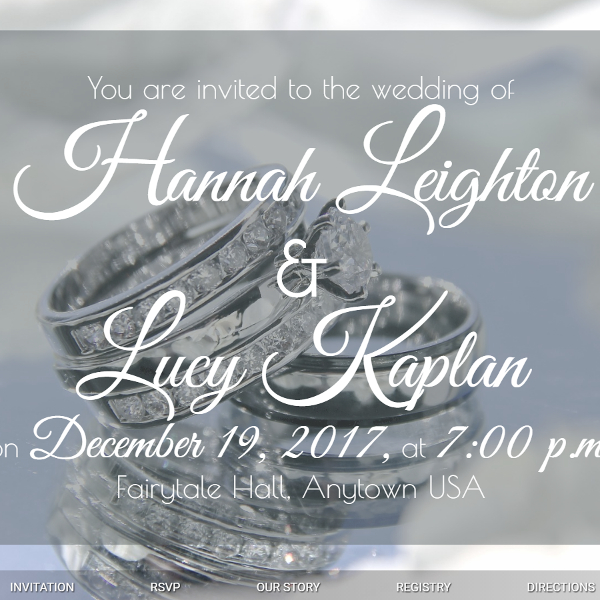
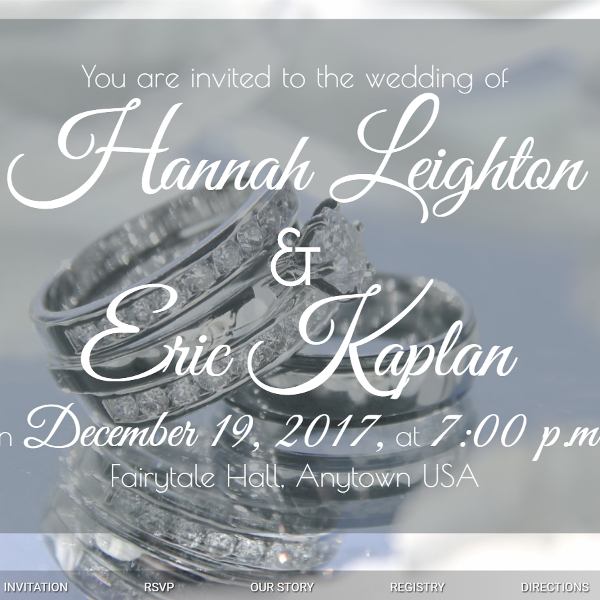
New blog post, among other things

diff --git a/portfolio/30Days30Sites/day02.html b/portfolio/30Days30Sites/day02.html
@@ -1,7 +1,7 @@
 <!DOCTYPE html>
 <html lang="en">
     <head>
-        <title>Hannah Leighton + Lucy Kaplan</title>
+        <title>Hannah Leighton + Eric Kaplan</title>
         <link rel="stylesheet" href="css/parallax.css"/><script type="text/javascript" src="https://ajax.googleapis.com/ajax/libs/jquery/3.2.1/jquery.min.js"></script>
         <link href='https://fonts.googleapis.com/css?family=Great+Vibes|Gentium+Basic|Poiret+One|Roboto' rel='stylesheet' type='text/css'>
         <link rel="stylesheet" type="text/css" href="/FontAwesome/css/font-awesome.min.css">
@@ -14,7 +14,7 @@
             <h2><span class="cursive"><span class="big-letter">H</span>annah <span class="big-letter">L</span>eighton</span><br>
             <span class="amp">&amp;</span><br>
             <span class="cursive">
-            <span class="big-letter">L</span>ucy <span class="big-letter">K</span>aplan</span></h2>
+            <span class="big-letter">E</span>ric <span class="big-letter">K</span>aplan</span></h2>
             <p>on <span class="cursive">December 19, 2017,</span> 
             at <span class="cursive">7:00 p.m.</span></p>
             <p>Fairytale Hall, Anytown USA</p>
@@ -67,7 +67,7 @@
                 <span class="space">at</span></span> <span class="time reminder">7:00 p.m.</span><br>
                 <span class="reminder">Fairytale Hall, Anytown USA</span></p>
                 <p><i class="fa fa-heart"></i></p>
-                <p><span class="cursive">Hannah and Lucy</span></p>
+                <p><span class="cursive">Hannah and Eric</span></p>
             </div>
         </div>
         </div>

diff --git a/index.html b/index.html
@@ -5,7 +5,7 @@ title: Writer Cracks the Code
 
 <div class="container">            
     <div class="title-blurb"><h1>Writer Cracks the Code</h1>
-    <h2>The blog of Morrisa Neely, aspiring web dev and occasional word-weaver</h2></div>
+    <h2>The blog of Morrisa Neely, animal lover, aspiring web dev, and occasional word-weaver</h2></div>
 
 <div class="excerpts">
 <ul>

diff --git a/portfolio/30Days30Sites/css/parallax.css b/portfolio/30Days30Sites/css/parallax.css
@@ -273,7 +273,7 @@ h2 {
     }
     
 #directions {
-    background: url("/portfolio/30Days30Sites/images/day02/women-pixabay.jpg") no-repeat center center fixed;
+    background: url("/portfolio/30Days30Sites/images/day02/couple-pixabay.jpg") no-repeat center center fixed;
     color: #fff;
     height: 101%;
     padding: 2.7em 2.5em 2.5em 2.5em;

diff --git a/portfolio/30Days30Sites/day10.html b/portfolio/30Days30Sites/day10.html
@@ -4,7 +4,6 @@
     </head>
     
     <body>
-    In Progress
     </body>
 
 </html>

diff --git a/_posts/2017-09-04-hitting-the-restart-button.md b/_posts/2017-09-04-hitting-the-restart-button.md
@@ -1,0 +1,18 @@
+---
+layout: post
+title: "Hitting the Restart Button"
+date: 2017-09-04
+---
+So, it's September already somehow? Since when? That doesn't seem right. I swear it was July just a few days ago.
+
+I've been gone from this thing&mdash;and my coding adventures&mdash;for too long. I fell woefully behind on 100 Days of Code, 30 Days 30 Sites, updating my Twitter account, all of it. But I'm still around. I'm always lurking somewhere on the internet...*always*...
+
+So. Updates? I got my driver's license around the end of July. I'm a car owner now. I'm 29 years old now, which doesn't sound accurate, but okay. I guess if my birth certificate says I should be 29 now, then I must be 29.
+
+Also, I applied for some jobs yesterday&mdash;first time I've ever applied for any job. I think I've mentioned before that I'd be searching for non-software jobs in the near future. I was waiting for vocational rehab to come through with something for me, but I got tired of waiting. Anyway, one of the jobs I applied to is at Petco, another is at a pet resort. Both involve dogs, and I'm a total dog person (I love cats too!). I figure I can tolerate a *lot* of stuff if I'm also getting to interact with dogs and other animals. I mean, I'm one of those people who gets all mushy over them.
+
+I don't have any professional experience working with dogs, but I can't remember ever being without at least one dog. And I feel like the bond between a pet and its loving owner is one of the most powerful forces out there. I mean, here's this innocent being that doesn't speak the same language as you and never will, that looks nothing like you and never will, that's not even the same species as you, and yet you learn to understand each other and love each other despite your profound differences. That's huge. That's beautiful.
+
+I'm not planning on abandoning learning to code, even if I do get one of these jobs. I enjoy coding. It's a ton of fun, and it's something I still want to know more about.
+
+That's it for now, I think. In the meantime, I'm going to get back into finishing 30 Days, 30 Sites projects, then tackle Daily CSS Images, and wait to hear *something* from either of the businesses I applied to.
